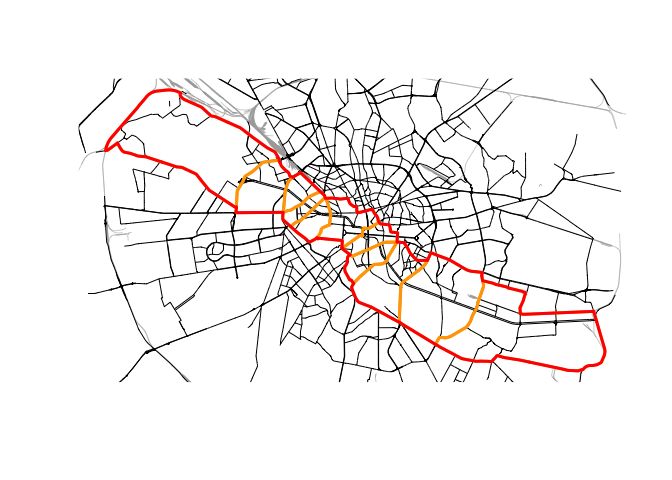
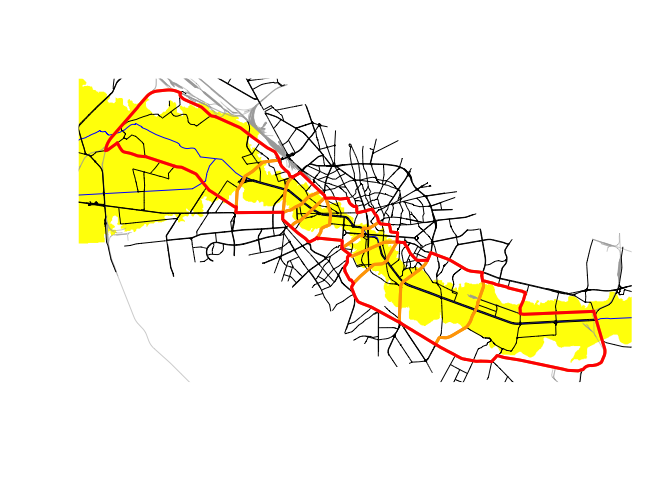
Update readme

diff --git a/README.md b/README.md
@@ -45,24 +45,12 @@ library(rcrisp)
 # Set location parameters
 city_name <- "Bucharest"
 river_name <- "Dâmbovița"
-epsg_code <- 32635
-
-# Get base layer for plotting
-bb <- get_osm_bb(city_name)
-streets <- get_osm_streets(bb, epsg_code)$geometry
-railways <- get_osm_railways(bb, epsg_code)$geometry
 
 # Delineate river corridor
 bd <- delineate(city_name, river_name, segments = TRUE)
-corridor <- bd$corridor
-segments <- bd$segments
 
-# Plot results
-plot(corridor)
-plot(railways, col = "darkgrey", add = TRUE, lwd = 0.5)
-plot(streets, add = TRUE)
-plot(segments, border = "orange", add = TRUE, lwd = 3)
-plot(corridor, border = "red", add = TRUE, lwd = 3)
+# Plot delineation object
+plot(bd)
 ```
 
 <img src="man/figures/README-example-1.png" width="100%" />
